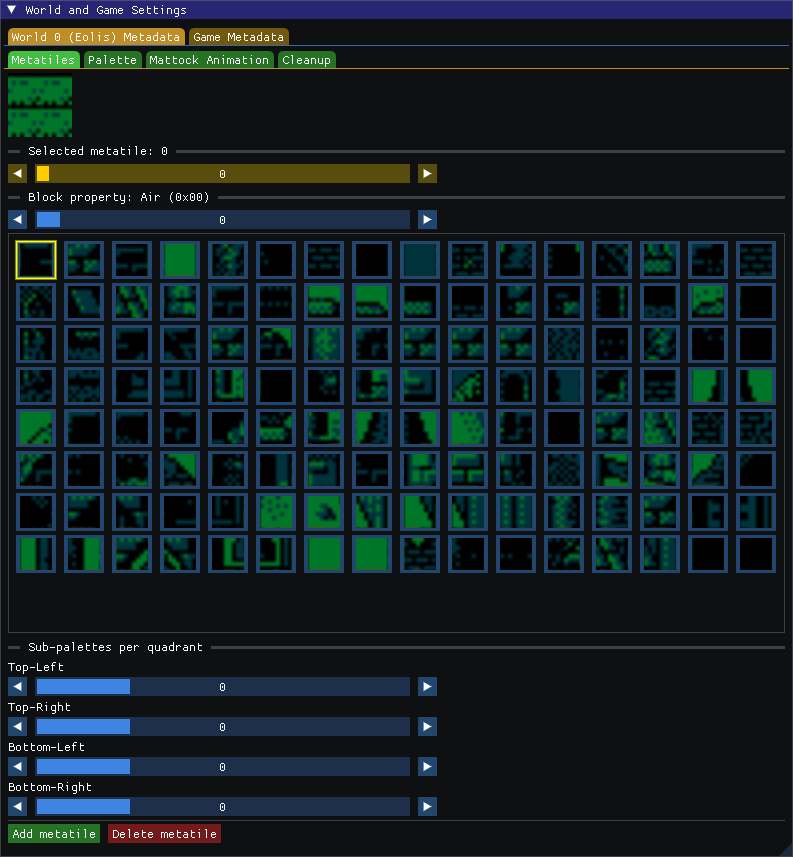
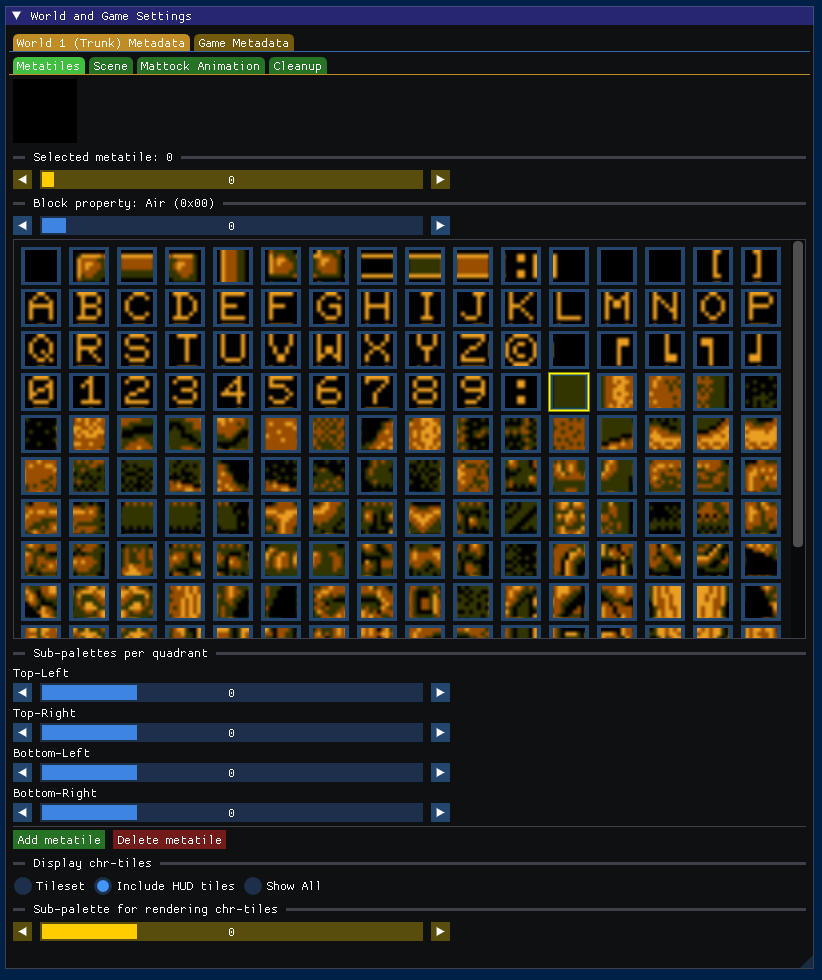
Update docs in preparation for beta-5

diff --git a/docs/doc.md b/docs/doc.md
@@ -1,6 +1,6 @@
 # Echoes of Eolis - User Documentation
 
-This is the user documentation for Echoes of Eolis (version beta-4), a Faxanadu data editor which can be found on its [GitHub repository](https://github.com/kaimitai/faxedit/). It is assumed that users are somewhat acquainted with Faxanadu on the NES.
+This is the user documentation for Echoes of Eolis (version beta-5), a Faxanadu data editor which can be found on its [GitHub repository](https://github.com/kaimitai/faxedit/). It is assumed that users are somewhat acquainted with Faxanadu on the NES.
 
 <hr>
 
@@ -29,9 +29,11 @@ The data we can edit forms a data hierarchy, from the top-level game metadata do
   - [Building Sprite Sets](#building-sprite-sets)
   - [Push-Block](#push-block)
   - [Jump-On Animation](#jump-on-animation)
+  - [Palette to Music map](#palette-to-music-map)
+  - [Fog metadata](#fog-metadata)
 - [World Metadata](#world-metadata)
   - [Metatile Definitions](#metatile-definitions)
-  - [Palette](#palette)
+  - [Scenes](#scenes)
   - [Mattock Animation](#mattock-animation)
   - [Cleanup](#cleanup)
 - [Screen Metadata](#screen-metadata)
@@ -41,6 +43,13 @@ The data we can edit forms a data hierarchy, from the top-level game metadata do
   - [Screen Doors](#screen-doors)
   - [Screen Scrolling](#screen-scrolling)
   - [Screen Transitions](#screen-transitions)
+- [Graphics](#graphics)
+  - [World gfx](#world-gfx)
+  - [World palettes](#world-palettes)
+  - [Background gfx](#background-gfx)
+  - [Background palettes](#background-palettes)
+  - [HUD](#hud)
+  - [Tips for bmp import](#tips-for-bmp-import)
 
 <hr>
 
@@ -54,6 +63,7 @@ This is the screen used for file operations and data analysis.
 * Patch nes ROM: Writes the ROM file, appends -out to the filename so your loaded file is not overwritten. Will show output messages regarding the used data sizes (hold shift to patch the ROM in-place)
 * Save ips: Generates an ips patch file
 * Data Integrity Analysis: Does some checking on whether there is problems in your data
+* Show/Hide gfx editor: Opens or closes the Graphics Editor window
 * Load xml: Reloads xml from file and re-populates your data. Hold Shift to use.
 * Output Messages: The messages from the editor
 
@@ -168,6 +178,24 @@ It is similar to the Mattock Animation in that it defines a 4-block animation cy
 
 Set the four metatiles here. The metatiles will be rendered based on the available metatiles in the selected World - as long as the metatile index is within bounds fo that world. Using jump-on with undefined metatiles will probably result in garbled graphics showing up in the game.
 
+## Palette to Music map
+
+Same-world doors can come with a palette change, which is part of the door's parameters. Some palettes can be defined to also introduce a music change. This is how towers work in the original game; when you enter a door the palette changes and a music change is triggered too.
+
+![pal2mus](./img/win_metadata_game_pal2mus.png)
+
+There are seven slots for palette to music definitions. If a palette change occurrs and it has no entry in this map, the current music will keep playing as you enter the same-world door.
+
+## Fog Metadata
+
+The fog effect happens in world 3 (Mist) in the original game, but not inside Mist towers.
+
+The reason is that for the fog to be in effect, a certain combination of world number and palette number must be active. This combination can be set here. If you set world number to 8 (invalid world number) the fog will not be active anywhere.
+
+![Fog](./img/win_metadata_game_fog.png)
+
+Another reason we need to know the fog world, is that the fog generating code is using certain chr-tiles of that world's tileset to generate the fog effect. When importing bmp we have to keep this tiles fixed, or else we will ruin the fog graphics.
+
 <hr>
 
 # World Metadata
@@ -180,7 +208,7 @@ Metatiles are defined on a per-world basis, and are used to make tilemaps for al
 
 ![Metatiles](./img/win_metadata_world_metatiles.png)
 
-The tiles on the bottom are NES-tiles used by this world's NES tilemap, and are used to define the metatile graphics. One NES-tile for each of the four quadrants of the metatile.
+The tiles on the bottom are chr-tiles used by this world's tilemap, and are used to define the metatile graphics. One chr-tile for each of the four quadrants of the metatile.
 
 Right-clicking on the metatile will place the selected NES-tile on the clicked quadrant. Ctrl+Right Click will select the NES-tile from the clicked quadrant. ("color picker"). We are including this functionality for completeness' sake.
 
@@ -220,13 +248,23 @@ Each metatile is associated with 4 sub-palettes. These are the sub-palettes the 
 
 No metatiles in the original game use this functionality. In the original game all metatiles have the same value here for all its quadrants. It looks like it can be buggy if text boxes appear and such - and the palette attribute table cannot be properly restored.
 
+* Display chr-tiles
+  * Tileset: Show only the chr-tiles which belong to the current world
+  * Include HUD tiles: The same as above, but include the HUD tiles which are always loaded in the ppu during gameplay. Stable metatiles can be made out of these.
+  * Show All: Will show all chr-tiles, including those which update dynamically during gameplay for text and such. Will cause visual glitches if used in a metatile definition, but could possibly be used creatively.
+
+
 * Add / Remove metatile: Adds a new metatile, or deletes the selected metatile. Metatiles which are placed on any screen tilemap cannot be deleted. The same goes for metatiles that are part of mattock animations and block-push parameters.
 
-## Palette
+## Scenes
 
-This defines the default palette for the world. When you take a stage-door into the world, this palette is used. You can override the palette using same-world doors and transitions. For world Trunk, for example, the default palette is 6 - but doors leading into towers change this to 7. Similarly for Mist and its towers. The editor will show a label for the palettes.
+This tab allows you to change some default settings of the current world; palette, music and tileset.
 
 ![Tilemap](./img/win_metadata_palette.png)
+
+For the buildings world, each screen has a definition here, and for buildings you can also define the entry position when you enter a door to building.
+
+Default palette and music can be overriden using same-world doors and palette to music mappings.
 
 ## Mattock Animation
 
@@ -399,3 +437,97 @@ In the original game all other-world transitions are defined from overworld-scre
 You can define these transitions between any two worlds (apart from the Buildings world probably), but one important thing to note is that it allows you to change world without changing your stage. This can allow players to reach stage-doors in several ways, and since the stage-door destinations will change depending on the stage number you could have a door with different destinations depending on how you got to that door.
 
 When in Transitions-editing mode, Shift+left Click moves the other-world destination position to the clicked position on the tilemap. Ctrl+Left Click moves the same-world destination position.
+
+# Graphics
+
+We have functionality for editing the graphics by importing bmp files. The NES does not support arbitraty bitmaps, and there are some strict rules we need to follow for our graphics to look good.
+
+NES background graphics are made out of chr-tiles, which are 8x8 pixel images, where each pixel has a value 0 to 3.
+
+One background palette can be active at any one time, and a palette has 4 sub-palettes. When combining a chr-tile with a palette, we get a colored chr-tile.
+
+Even though the sub-palettes have 4 color, they share the first color - meaning at most 13 distinct background colors can be active at any one time.
+
+On top of this, a sub-palette is not active per chr-tile, but for a 2x2 region of chr-tiles, which we call a metatile.
+
+So these are the effective rules for a NES screen:
+
+The screen is made out of 8x8 pixel chr tiles.
+
+Only 4 distinct colors can be active for any one 16x16 pixel region (2x2 chr-tiles) of the screen.
+
+Only 13 distinct colors can be active for the screen as a whole.
+
+The number of chr-tiles the picture processing unit (ppu) of the nes can access at one time is limited to 256.
+
+## World gfx
+
+![World gfx](./img/win_gfx_world_gfx.png)
+
+In this edit mode, you can extract a world's (or building screen's) metatiles as a bmp - and import one back in.
+
+* Extract from ROM: Make a texture out of your current metatile definitions and show them as an image.
+* Save bmp: Save the tilemap as a bmp. The output messages will tell you where it was stored.
+* Load bmp: Import a bmp as a metatile tilemap, and render it here. The rendering will show you what your import will look like in the game.
+* Commit to ROM: If you are happy with the result, you can commit your import to ROM in memory and it will show in your screen tilemaps. If you are not happy with the result, you can extract from ROM again to clear your staging data. If you have a screen loaded in the tilemap editor using this tileset, you will immediately see the change there, and the chr-tile picker in world metadata will also be updated.
+* If there is any staging data, a "preview result under other palette"-slider will be available. This is there so you can check your result if you want your metatiles to render under different palettes, if you have doors to towers for example. You need to click the "Re-render" button to regenerate your output image. This does not change any data however, it is for rendering purposes only.
+* chr-tile deduplication strategy; When importing bmp, we want to generate as few chr-tiles as possible while still rendering the imported bmp. We have different strategies to decuplicate, and they are:
+  * Sub-Palette: chr-tiles are considered equal only if they have the same byte output (strict)
+  * NES-palette: chr-tiles are considered equal if their palette indexes resolve to the same NES-palette colors. If you only need your metatiles to show in the context of one single palette, this is a good option.
+  * RGB: chr-tiles are considered equal if they resolve to the same RGB-colors after applying the NES palette and resolving its rgb-values defined in the config xml. (loose)
+
+## World palettes
+
+![World gfx](./img/win_gfx_world_palette.png)
+
+This screen allows you to change the 4 sub-palettes for any of the world-palettes.
+
+The sub-palettes show at the top as a 4x4 grid, and the full NES-palette shows at the bottom. You can select a palette color, and then change which NES color it resolves to. If you have a screen loaded in the tilemap editor using this palette, you will immediately see the change.
+
+We have a checkbox "Allow editing bg-color", which users can toggle to edit the first color of each sub-palette. Faxanadu seems to set this to color $0f (black) regardless of value in ROM, so there is little use in changing this color unless you have a modified ROM which does not enforce this.
+
+## Background gfx
+
+![World gfx](./img/win_gfx_bg_gfx.png)
+
+This screen functions similarly to the World Gfx screen, but deals with background tilemaps instead; The title, intro and outro screen - as well as a virtual tilemap for the items when rendered as background objects (and not as sprites).
+
+The intro and outro screens share tileset, and both must be extracted from ROM to be editable - because when editing one the other's chr-tiles must be fixed, otherwise we would ruin the other image.
+
+## Background palettes
+
+This screen works the same way as the world palettes, but applies to the palettes used by the background screens. For the items tilemap we defined a palette, but in the game the palette used depends on the world - and items can look different in different contexts.
+
+## HUD
+
+![World gfx](./img/win_gfx_hud.png)
+
+For completeness' sake we have a HUD-editor with a preview.
+
+The game has a mapping from palette number to HUD attribute index, and each HUD attribute index is associated with 4 sub-palettes which are used for the metatiles making up the HUD gfx.
+
+When editing the HUD attributes for each quadrant, you are editing for all palettes using this HUD attribute index.
+
+This is for advanced modding only, but if you change palette you might want to use this functionality. Note also that only the bottom left and bottom right palette attribute is of consequence, as the top two rows of the HUD are blank.
+
+The original game only uses 4 different HUD attributte indexes, although there are 24 slots available.
+
+## Tips for bmp import
+
+When editing NES gfx you are working under heavy constraints, but there are some things you can do to help the bmp importer.
+
+Make sure your graphics are aligned on an 8x8 pixel grid, and that you are aware of the "1 sub-palette per 2x2 chr-tile region" rule. The closer your colors are to your import palette the better. If your import bmp only uses colors from the import palette, and you follow all the rules of NES graphics, the importer will have an easy time.
+
+Try to use sub-palettes which have distinct colors. If you have two indexes of the same color, the importer will assign all the matching colors to the first palette index.
+
+If you need your chr-tiles to be rendered under several sub-palettes ensure the colors you want to match have the same index. If you want the color yellow under one sub-palette to be red under another sub-palette, the red and yellow color must have the same index. Otherwise more chr-tiles must be generated, even if the graphics are otherwise identical.
+
+The hardest gfx to make is the intro and outro screens. They are rendered under two different palettes, your chr-tile bank consists of 128 tiles - but you need to render 2 screens which are drawn with a total of 1920 tiles - in other words a lot of re-use is necessary.
+
+You can start by importing a totally blank bmp to one of them and commit, that will free up all tiles for the other - and once you have a result for one of them, you can iteratively generate the other.
+
+When loading a bmp an output message will tell you how many chr-tiles were reclaimed (how many more you can make and still be within the limits), or how many it needed to approximate. If approximation was necessary, your chr-count overflowed and the importer had to re-use tiles and just chose the tiles that fit the best to generate the rest of the image. Ideally you don't want to overflow.
+
+For some images, if you import a bmp you exported from ROM, it will still fail to stay within the limits. This might seem counter-intuitive, but this is because there were palettes with the same color within a sub-palette - and it therefore failed to match it to chr-tiles it potentially could have matched it if the same-color was distributed to different indexes in some way. It becomes computationally prohibitive to try all such combinations however. You can temporarily alter palettes like that to have all colors distinct with each sub-palette, and then change the colors back after the import.
+
+Experiment and have fun!
